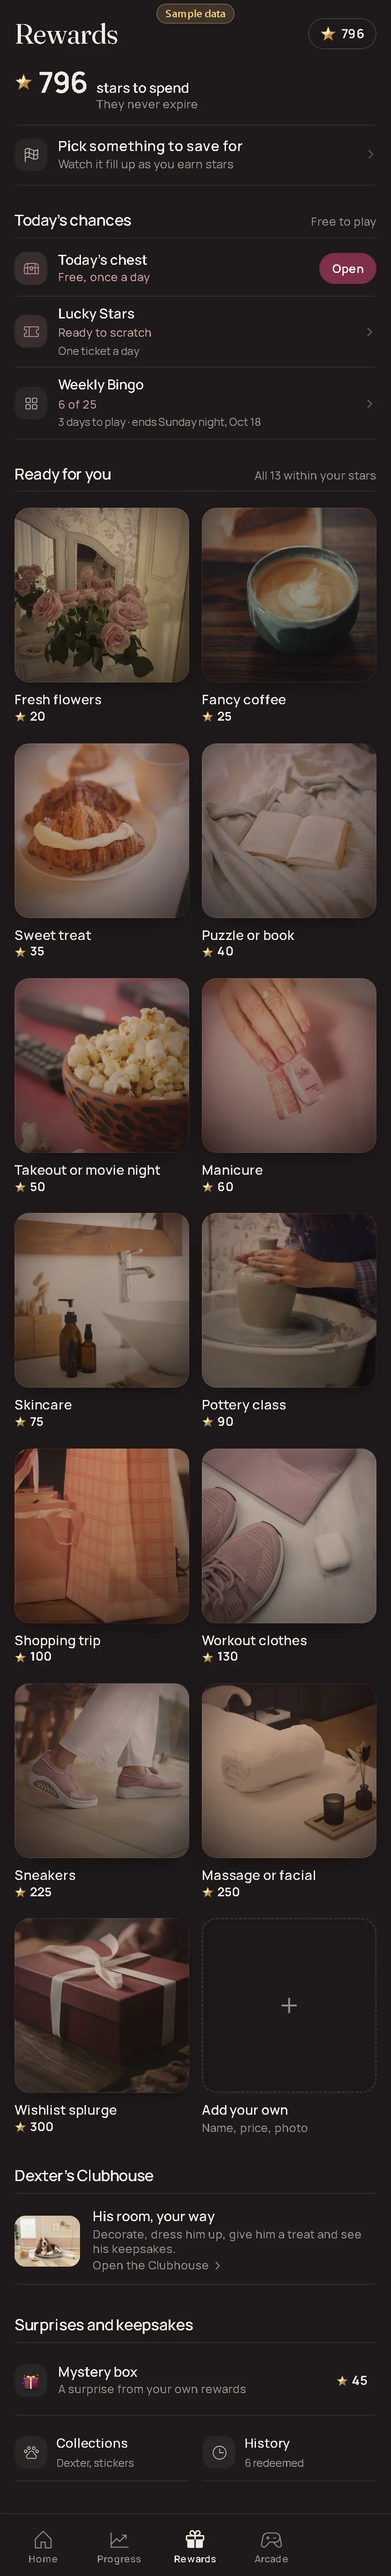
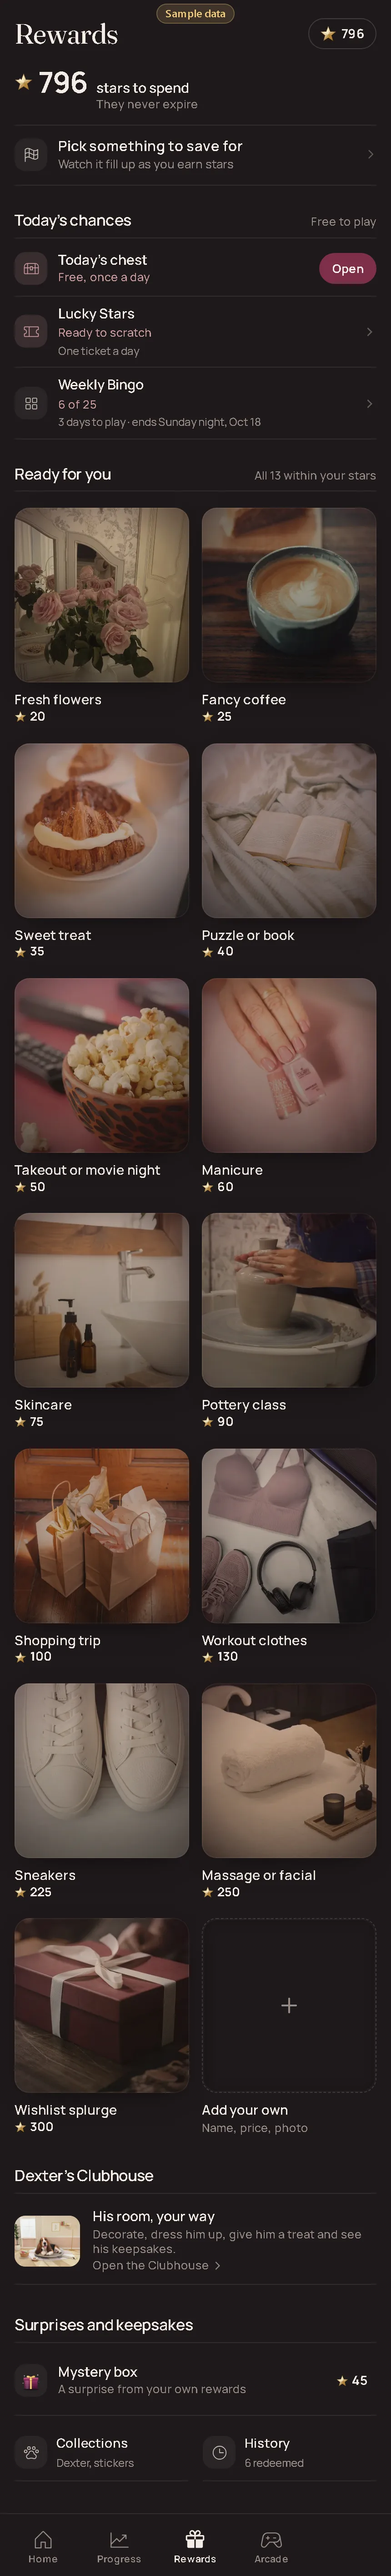
Demo snapshot from starcade@57d2dcf

Changed region(s): [[0.0302, 0.5595, 0.4837, 0.746], [0.514, 0.5595, 0.9674, 0.6528]]

diff --git a/review/index.html b/review/index.html
@@ -4,7 +4,7 @@ ul.grid{list-style:none;padding:0;display:grid;grid-template-columns:repeat(auto
 ul.grid img{display:block;width:100%;height:auto;aspect-ratio:430/932;object-fit:cover;object-position:top;border-radius:10px;background:#261727}
 figure{margin:0}figure img{display:block;max-width:430px;width:100%;height:auto;border-radius:12px;background:#261727}pre{white-space:pre-wrap;background:#261727;padding:12px 14px;border-radius:10px;color:#CFB9C1;font:14px/1.45 system-ui,sans-serif}
 nav.pn{display:flex;justify-content:space-between;gap:12px;margin:14px 0}dl{display:grid;grid-template-columns:max-content 1fr;gap:4px 14px;margin:0 0 16px;color:#CFB9C1}dt{color:#9C8492}</style></head><body><main><h1>Starcade demo · visual review</h1>
-<p class="meta">Read-only, pre-rendered snapshots of every major screen and state of Starcade, generated automatically from the live demo build with sample data only (no real user data). Viewport 430×932 (large iPhone), device scale 2. 65 screens and states. Generated 2026-10-17 00:56 UTC. This page needs no JavaScript. The interactive demo itself is at <a href="../">the demo home</a>.</p>
+<p class="meta">Read-only, pre-rendered snapshots of every major screen and state of Starcade, generated automatically from the live demo build with sample data only (no real user data). Viewport 430×932 (large iPhone), device scale 2. 65 screens and states. Generated 2026-10-17 02:04 UTC. This page needs no JavaScript. The interactive demo itself is at <a href="../">the demo home</a>.</p>
 <p>Overview of everything at once: <a href="img/00-contact-sheet.webp">contact sheet image</a>.</p>
 <p><img src="img/00-contact-sheet.webp" alt="Contact sheet: the first screen of all 65 Starcade screens and states side by side" style="max-width:100%;height:auto;border-radius:10px"></p>
 <h2>Home</h2><ul class="grid"><li><a href="01-home.html"><img src="img/01-home.webp" alt="Home · Today (afternoon, Dexter relaxed in his bed)" loading="lazy" width="430" height="932"><span>Home · Today (afternoon, Dexter relaxed in his bed)</span></a></li><li><a href="02-home-routine-pill-open.html"><img src="img/02-home-routine-pill-open.webp" alt="Home · a routine pill opened in place (Night)" loading="lazy" width="430" height="932"><span>Home · a routine pill opened in place (Night)</span></a></li><li><a href="03-home-week-pill-open.html"><img src="img/03-home-week-pill-open.webp" alt="Home · This week pill opened (weekly reset)" loading="lazy" width="430" height="932"><span>Home · This week pill opened (weekly reset)</span></a></li><li><a href="04-home-completed-expanded.html"><img src="img/04-home-completed-expanded.webp" alt="Home · Completed habits expanded" loading="lazy" width="430" height="932"><span>Home · Completed habits expanded</span></a></li><li><a href="05-home-quick-actions.html"><img src="img/05-home-quick-actions.webp" alt="Home · press and hold a habit: quick actions (skip, rest, partly, note)" loading="lazy" width="430" height="932"><span>Home · press and hold a habit: quick actions (skip, rest, partly, note)</span></a></li><li><a href="06-home-just-one-thing.html"><img src="img/06-home-just-one-thing.webp" alt="Home · Just one thing (pick for me)" loading="lazy" width="430" height="932"><span>Home · Just one thing (pick for me)</span></a></li><li><a href="07-daily-surprise-closed.html"><img src="img/07-daily-surprise-closed.webp" alt="Daily Surprise · the gift before opening" loading="lazy" width="430" height="932"><span>Daily Surprise · the gift before opening</span></a></li><li><a href="08-daily-surprise-opened.html"><img src="img/08-daily-surprise-opened.webp" alt="Daily Surprise · revealed" loading="lazy" width="430" height="932"><span>Daily Surprise · revealed</span></a></li></ul>

diff --git a/index.html b/index.html
@@ -9397,8 +9397,6 @@ html.ds-shell :is(button,input,select,textarea){font-family:inherit}
 #rewards .bq-tile .bq-ph:has(.bq-photo) .bq-art{display:none}
 #rewards .bq-tile .bq-photo{position:absolute;inset:0;width:100%;height:100%;object-fit:cover;display:block;opacity:1;filter:saturate(1.06) brightness(1.05) contrast(1.02);transition:transform .5s cubic-bezier(.2,.8,.2,1)}
 #rewards .bq-tile:active .bq-photo{transform:scale(1.03)}
-#rewards .bq-tile .bq-photo[src*=ph-shopping]{object-position:82% 100%;transform:scale(1.32);transform-origin:82% 100%}
-#rewards .bq-tile .bq-photo[src*=ph-workout]{object-position:30% 60%}
 #rewards .bq-tile .bq-nm{order:2;font:600 14.5px/1.3 var(--st-sans);color:var(--st-ink);white-space:normal;text-shadow:none;margin:0 0 4px}
 #rewards .bq-tile .bq-pr{order:3;position:static;display:inline-flex;align-items:center;gap:4px;background:none;border:0;box-shadow:none;padding:0;font:700 13.5px/1 var(--st-sans);color:var(--st-ink);-webkit-backdrop-filter:none;backdrop-filter:none;white-space:nowrap}
 #rewards .bq-tile .bq-pr .ds-ic{width:13px;height:13px;color:var(--st-gold)}

diff --git a/review/46-brain-pattern.html b/review/46-brain-pattern.html
@@ -15,10 +15,10 @@ Pattern
 Correct
 0
 
-9, 16, 25, 36, ?
+6, 11, 19, 24, ?
 
-49
-48
-51
-50</pre>
+32
+34
+31
+33</pre>
 </main></body></html>
